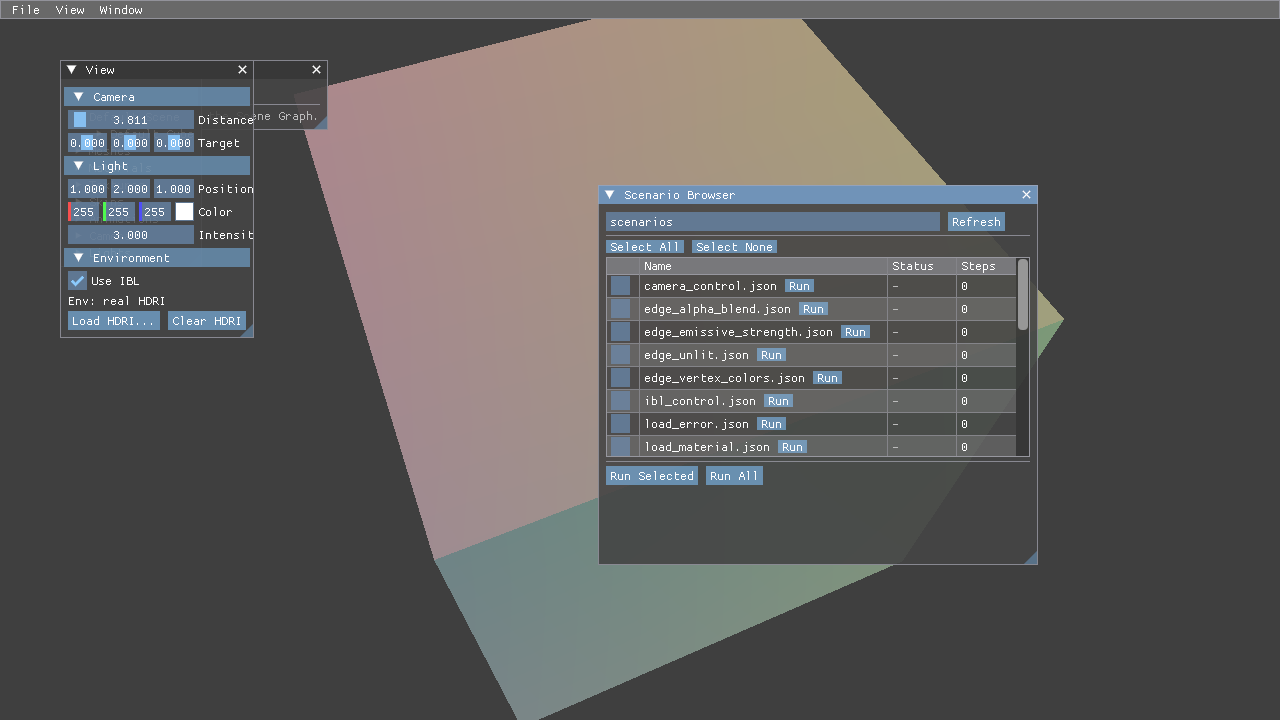
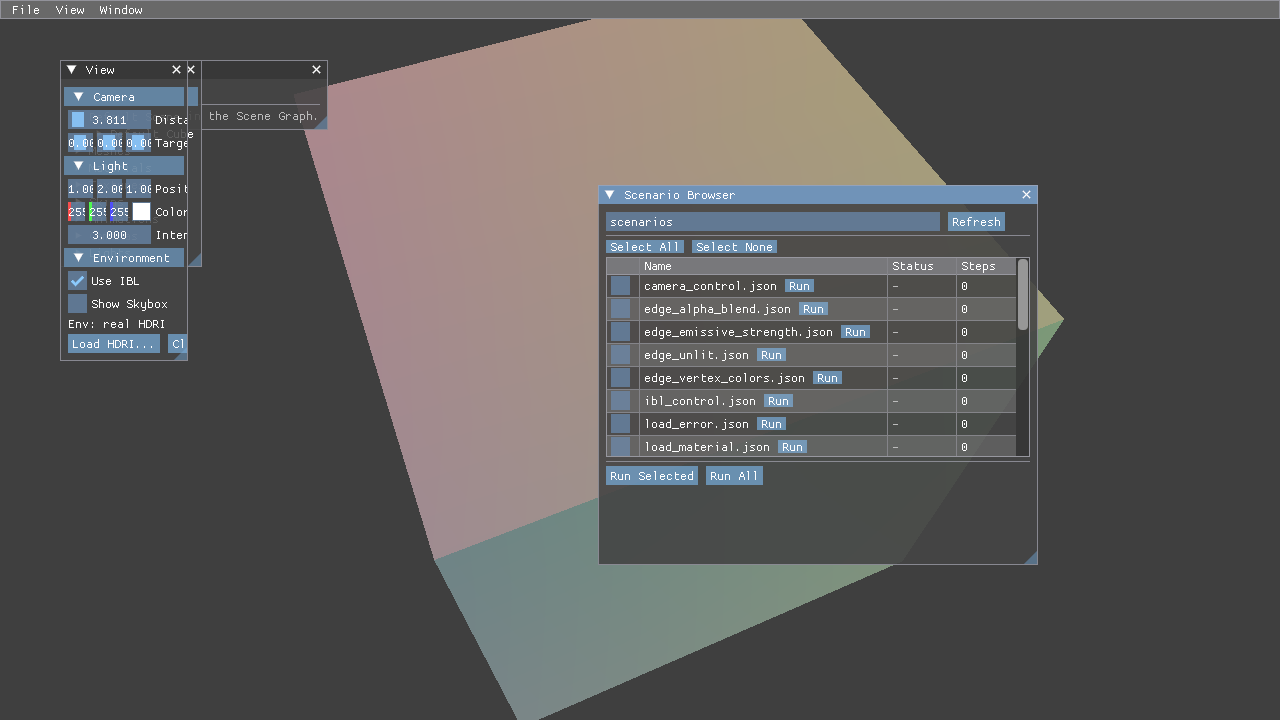
GltfSceneRenderer: skybox background display (Phase 4B item 2)
Wires up Shaders::skyboxVertSpv/skyboxFragSpv, which GltfViewer and
RayTracerView already loaded but nothing ever consumed -- reuses the
existing Phantom::VKG::VkSkyBoxRenderer (CGLib/Renderer/VkRenderer,
already used by VkRendererView's demo and PhysicsView's SSFR) rather
than reimplementing cube geometry/pipeline from scratch. Shows the
same cubemap setEnvironment()/IBL sample from, opt-in via
setUseSkybox()/getUseSkybox() (default off).

GltfRendererCore now depends on VkRendererCore for this; synced both
copies of phantom_add_gltfrenderer_core() (CGLib's own and the
Phantom superproject's duplicate, same drift class as the RayTracer
increment) to add the dependency.

GltfViewer: "Show Skybox" checkbox (ViewPanel) + SetUseSkybox:/
GetUseSkybox commands, extended ibl_control.json with a round-trip +
screenshot showing the real HDRI as a background. Confirmed visually
(colorful test_env.hdr gradient behind the viewport).

Also fixes an unrelated pre-existing test staleness found while
running the full scenario sweep: load_error.json expected MeshCount:0
after a failed load, but GltfViewer has shown a default cube (1 mesh)
when no model is loaded since an earlier commit -- updated the
expectation to match actual (and correct) behavior.

Changed region(s): [[0.0312, 0.0917, 0.2188, 0.3972], [0.0312, 0.3972, 0.2188, 0.5194]]

diff --git a/GltfRenderer/Renderer/GltfSceneRenderer.cpp b/GltfRenderer/Renderer/GltfSceneRenderer.cpp
@@ -640,6 +640,20 @@ void GltfSceneRenderer::onInit(Phantom::VKG::VulkanContext& ctx, const Phantom::
     cfg.cullMode = VK_CULL_MODE_NONE;
     pipelineBlendDoubleSided_.create(ctx, renderPass, cfg);
 
+    // Skybox (see setUseSkybox()): only if the caller populated both shaders.
+    if (!shaders_.skyboxVertSpv.empty() && !shaders_.skyboxFragSpv.empty()) {
+        Phantom::VKG::VkSkyBoxRenderer::Config skyCfg;
+        skyCfg.vertSpv = shaders_.skyboxVertSpv;
+        skyCfg.fragSpv = shaders_.skyboxFragSpv;
+        skybox_.emplace(std::move(skyCfg));
+        skybox_->create(ctx, pool, renderPass, MAX_FRAMES);
+        // setEnvironment() may have already run before onInit() (the common call order -- see
+        // its own comment); bind whatever cubemap it stored so the skybox isn't blank until the
+        // next setEnvironment() call.
+        if (envView_ != VK_NULL_HANDLE)
+            skybox_->setCubeMap(device, envView_, envSampler_);
+    }
+
     // Document-specific resources: only if a document was already set.
     if (doc_) buildDocumentResources();
 }
@@ -840,6 +854,9 @@ void GltfSceneRenderer::setEnvironment(VkImageView envView, VkSampler envSampler
     envSampler_ = envSampler;
     recomputeIBL();
     if (ctx_) updateGlobalDescriptorSets(ctx_->getDevice());
+    // Skybox shows the same environment IBL samples from -- keep both in sync on every change
+    // (initial load, HDRI swap, and ClearEnvironmentHDR's revert to the placeholder alike).
+    if (skybox_) skybox_->setCubeMap(ctx_->getDevice(), envView, envSampler);
 }
 
 void GltfSceneRenderer::recomputeIBL()
@@ -913,6 +930,18 @@ void GltfSceneRenderer::onUpdate(uint32_t frameIndex) {
 
     globalUbos_[frameIndex].write(&cam, sizeof(GlobalUBO));
 
+    if (skybox_ && useSkybox_) {
+        // Same view/proj as the main pass, but with translation stripped from the view matrix
+        // (a skybox only ever rotates with the camera, never translates -- VkSkyBoxRenderer::
+        // Buffer's own doc comment) -- same recipe as VkRendererView's SkyBox mode.
+        Phantom::VKG::VkSkyBoxRenderer::Buffer skyBuf;
+        skyBuf.projectionMatrix = cam.proj;
+        glm::mat4 viewNoTranslation = cam.view;
+        viewNoTranslation[3] = glm::vec4(0.f, 0.f, 0.f, cam.view[3].w);
+        skyBuf.viewMatrix = viewNoTranslation;
+        skybox_->upload(skyBuf, frameIndex);
+    }
+
     // BoneUBO: entries beyond skinMatrices_'s size (including the whole array, if
     // updateSkinMatrices() was never called) default to identity -- see BoneUBO's comment.
     BoneUBO bones;
@@ -931,7 +960,13 @@ void GltfSceneRenderer::onUpdate(uint32_t frameIndex) {
 // ============================================================
 
 void GltfSceneRenderer::onRender(VkCommandBuffer cmd, uint32_t frameIndex) {
-    if (!ready_ || !visible_ || primitives_.empty()) return;
+    if (!ready_ || !visible_) return;
+    if (primitives_.empty()) {
+        // No glTF geometry loaded (or none visible) -- still draw the skybox alone if enabled,
+        // rather than bailing out like every primitive-drawing path below does.
+        if (useSkybox_ && skybox_ && skybox_->isValid()) skybox_->render(cmd, frameIndex);
+        return;
+    }
 
     // Bind global descriptor set (set=0) once for all primitives. All 4 pipeline variants share
     // the same descriptor set layouts (see onInit()), so any of their layouts works here
@@ -1002,6 +1037,12 @@ void GltfSceneRenderer::onRender(VkCommandBuffer cmd, uint32_t frameIndex) {
             draw(entry, mat, mat->doubleSided() ? pipelineBlendDoubleSided_ : pipelineBlend_);
         }
     }
+
+    // Skybox last: VkSkyBoxRenderer's pipeline writes depth=1.0 (max) with depthWrite off and a
+    // LEQUAL compare, so drawing it after every opaque/blend primitive lets the depth test reject
+    // it wherever real geometry already covered a pixel -- standard "skybox last" optimization,
+    // not required for correctness (either order composites the same way).
+    if (useSkybox_ && skybox_ && skybox_->isValid()) skybox_->render(cmd, frameIndex);
 }
 
 // ============================================================
@@ -1017,6 +1058,7 @@ void GltfSceneRenderer::onCleanup(VkDevice device) {
     pipelineBlend_.destroy(device);
     pipelineBlendDoubleSided_.destroy(device);
     shadowPipeline_.destroy(device);
+    if (skybox_) { skybox_->destroy(device); skybox_.reset(); }
 
     for (auto& entry : primitives_) entry->mesh.destroy(device);
     primitives_.clear();

diff --git a/GltfRenderer/Renderer/GltfSceneRenderer.h b/GltfRenderer/Renderer/GltfSceneRenderer.h
@@ -15,8 +15,10 @@
 #include "../../../CGLib/VulkanGraphics/VulkanPipeline.h"
 #include "../../../CGLib/VulkanGraphics/VulkanSampler.h"
 #include "../../../CGLib/VkAppBase/IVkSubRenderer.h"
+#include "../../../CGLib/Renderer/VkRenderer/VkSkyBoxRenderer.h"
 
 #include <memory>
+#include <optional>
 #include <vector>
 #include <array>
 
@@ -174,6 +176,20 @@ namespace Phantom::Gltf
         void setUseIBL(bool v) { useIBL_ = v ? 1 : 0; }
         int  getUseIBL() const { return useIBL_; }
 
+        // --- Skybox (Phase 4B, background display of the environment cubemap) ---
+        // Draws the same cubemap setEnvironment() bound (IBL and the skybox always show the same
+        // environment -- no separate "skybox-only" texture slot) as a background behind all
+        // opaque/blend primitives, using Phantom::VKG::VkSkyBoxRenderer (already used by
+        // VkRendererView/PhysicsView's SSFR skybox mode; reused as-is rather than reimplemented).
+        // No-op unless Shaders::skyboxVertSpv/skyboxFragSpv were populated before onInit() --
+        // every existing caller that leaves them empty (the common case before this feature)
+        // keeps rendering exactly as before. Default OFF even when the shaders are present, so a
+        // caller that already loads them (GltfViewer, RayTracerView -- previously unused, dead
+        // fields) does not suddenly grow a visible skybox without opting in.
+        void setUseSkybox(bool v) { useSkybox_ = v; }
+        bool getUseSkybox() const { return useSkybox_; }
+        bool hasSkyboxPipeline() const { return skybox_.has_value(); }
+
         // Phase 4B tone mapping: multiplies color before gltf.frag's Reinhard tonemap (1.0 =
         // unchanged from before this existed). GlobalUBO::exposure was appended at the very end
         // of the struct specifically so this is safe to add without shifting any other
@@ -296,6 +312,13 @@ namespace Phantom::Gltf
         GltfIBLPrecomputer::Result iblResult_;
 
         void recomputeIBL();
+
+        // Skybox (see setUseSkybox()). Constructed in onInit() only if Shaders::skyboxVertSpv/
+        // skyboxFragSpv are non-empty; std::optional so a caller that never sets those shaders
+        // pays no extra Vulkan resource cost (matches the shadow pipeline's shaders_.shadowVertSpv-
+        // gated pattern above, just with an owned sub-object instead of a lazily-created pipeline).
+        std::optional<Phantom::VKG::VkSkyBoxRenderer> skybox_;
+        bool useSkybox_ = false;
 
         // 4 pipeline variants over 2 independent axes, selected per-primitive in onRender():
         //   - cull:  pipeline_/pipelineBlend_ (cullMode_, usually back-face) vs

diff --git a/GltfViewer/CommandDispatcher.cpp b/GltfViewer/CommandDispatcher.cpp
@@ -130,6 +130,18 @@ std::string CommandDispatcher::route(const std::string& cmd) {
         return "OK";
     }
 
+    if (cmd == "GetUseSkybox") {
+        if (!renderer_) return "Val:0";
+        return "Val:" + std::to_string(renderer_->getUseSkybox() ? 1 : 0);
+    }
+
+    if (cmd.rfind("SetUseSkybox:", 0) == 0) {
+        if (!renderer_) return "Error:no renderer";
+        if (!renderer_->hasSkyboxPipeline()) return "Error:no skybox shaders loaded";
+        renderer_->setUseSkybox(cmd.substr(13) != "0");
+        return "OK";
+    }
+
     // Real HDRI loading (2026-09-15): replaces the placeholder tint cubemap with a real
     // equirectangular .hdr panorama (see App::loadEnvironmentHDR()'s comment).
     if (cmd.rfind("LoadEnvironmentHDR:", 0) == 0) {

diff --git a/GltfViewer/ViewPanel.cpp b/GltfViewer/ViewPanel.cpp
@@ -29,6 +29,11 @@ void ViewPanel::onImGui() {
         }
         if (ImGui::CollapsingHeader("Environment", ImGuiTreeNodeFlags_DefaultOpen)) {
             if (ImGui::Checkbox("Use IBL", &useIBL_)) renderer_->setUseIBL(useIBL_);
+            if (renderer_->hasSkyboxPipeline()) {
+                if (ImGui::Checkbox("Show Skybox", &useSkybox_)) renderer_->setUseSkybox(useSkybox_);
+            } else {
+                ImGui::TextDisabled("Show Skybox (no skybox shaders loaded)");
+            }
             if (app_) {
                 ImGui::Text("%s", app_->hasEnvironmentHDR() ? "Env: real HDRI" : "Env: placeholder");
                 if (ImGui::Button("Load HDRI...")) {

diff --git a/GltfViewer/ViewPanel.h b/GltfViewer/ViewPanel.h
@@ -26,6 +26,7 @@ private:
     glm::vec3 lightColor_ = { 1.f, 1.f, 1.f };
     float lightIntensity_ = 3.f;
     bool useIBL_ = true;
+    bool useSkybox_ = false;
 };
 
 } // namespace Phantom::Gltf
